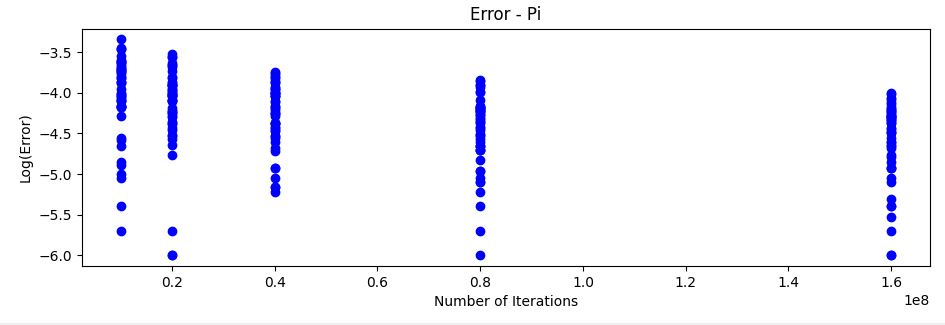
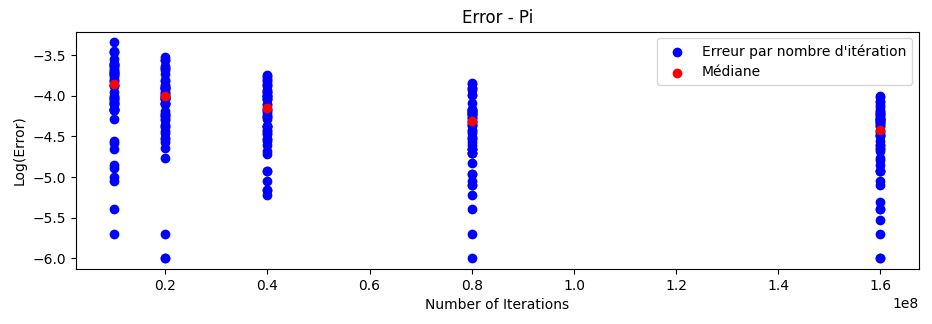
docs: Ajout de précision sur la partie de l'évaluation de l'erreur

diff --git a/src/Courbe_SpeedUp/main.py b/src/Courbe_SpeedUp/main.py
@@ -84,41 +84,37 @@ def plot_scalability_faible(ax, csv_file, group_size=50, title=""):
     ax.legend()
     ax.grid(True)
 
-def plot_log_error_vs_iterations(ax, csv_file, title):
-    # Charger le fichier CSV
+def plot_log_error_vs_iterations(ax, csv_file, group_size=50, title=""):
+    # Charger les données et les convertir
     df = pd.read_csv(csv_file, sep=";")
+    errors = [float(e.replace(',', '.')) for e in df['Error']]
+    iterations = df["nbIteration"].to_list()
+
+    # Calcul des logs des erreurs
+    log_errors = [math.log10(e) if e > 0 else float('nan') for e in errors]
+
+    # Calcul des moyennes par groupe
+    mean_log_errors = [
+        math.log10(sum(errors[i:i + group_size]) / len(errors[i:i + group_size]))
+        for i in range(0, len(errors), group_size)
+    ]
+
+    # Filtrer les données valides
+    valid_data = [(iterations[i], log_errors[i]) for i in range(len(log_errors)) if not math.isnan(log_errors[i])]
     
-    # Extraire les colonnes 'Error' et 'nbIteration'
-    error = df['Error'].to_list()
-    nb_iter = df["nbIteration"].to_list()
-
-    # Initialiser une liste vide pour les erreurs transformées
-    error_log = []
-
-    # Appliquer la transformation logarithmique
-    for i in error:
-        try:
-            # Convertir la virgule en point et calculer le logarithme
-            log_error = math.log10(float(i.replace(',', '.')))
-            error_log.append(log_error)
-        except ValueError:
-            # Gérer les erreurs de données invalides
-            error_log.append(float('nan'))  # Ajouter NaN si une erreur survient
-
-    # Assurer que les deux listes ont la même longueur (en supprimant les NaN de error_log et nb_iter)
-    valid_data = [(nb_iter[i], error_log[i]) for i in range(len(nb_iter)) if not math.isnan(error_log[i])]
-
-    # Si des données valides existent après le filtrage
     if valid_data:
-        nb_iter_filtered, error_log_filtered = zip(*valid_data)
+        nb_iter_filtered, log_errors_filtered = zip(*valid_data)
 
-        # Tracer les données
-        ax.scatter(nb_iter_filtered, error_log_filtered, c='b')
+        # Tracer les points et les moyennes
+        ax.scatter(nb_iter_filtered, log_errors_filtered, c='b', label="Erreur par nombre d'itération")
+        ax.scatter(sorted(set(iterations)), mean_log_errors, c='r', label="Médiane")
         ax.set_xlabel("Number of Iterations")
         ax.set_ylabel("Log(Error)")
         ax.set_title(title)
+        ax.legend()
     else:
         print("Aucune donnée valide disponible pour afficher le graphique.")
+
 
 # Créer la figure et les sous-graphique
 fig, axes = plt.subplots(3, 2, figsize=(15, 10))
@@ -128,7 +124,7 @@ plot_scalability_forte(axes[0, 0], "data/output_G24_Assignment_forte.csv", title
 plot_scalability_forte(axes[0, 1], "data/output_G24_Pi_forte.csv", title="Scalabilité Forte - Pi")
 #plot_scalability_faible(axes[1, 0], "data/output_G24_Assignment_faible.csv", title="Scalabilité Faible - Assignment")
 plot_scalability_faible(axes[1, 1], "data/output_G24_Pi_faible.csv", title="Scalabilité Faible - Pi")
-plot_log_error_vs_iterations(axes[2, 0], "data/output_G24_Assignment_faible.csv", title="Error - Assignment")
+#plot_log_error_vs_iterations(axes[2, 0], "data/output_G24_Assignment_faible.csv", title="Error - Assignment")
 plot_log_error_vs_iterations(axes[2, 1], "data/output_G24_Pi_faible.csv", title="Error - Pi")
 
 

diff --git a/docs/Rapport.md b/docs/Rapport.md
@@ -17,7 +17,7 @@ Enzo GUIGNOLLE
 - #### [A/ Contexte](#a)
 - #### [B/ Réalisation des tests](#b) 
   - #### [a/ Evaluation du Speed Up](#b1)
-  - #### [b/ Evaluation de l'écart du Speed Up](#b2)
+  - #### [b/ Evaluation de l'écart de Pi](#b2)
 
 <br>
 
@@ -328,108 +328,20 @@ D'après ce tableau nous obtenu un courbe de speed up pour la scalabilité faibl
 
 <img src="images/courbe_scalabilitéFaible_distribue.png" width="400">
 
-###  <a name="b"></a> b/ Evaluation de l'écart du Speed Up
+###  <a name="b2"></a> b/ Evaluation de l'écart de Pi
 
 Dans cette sous partie, nous allons voir comment l'erreur diminue au fur et à mesure qu'on augmente le nombre d'itération dasn les tests. En premier j'ai réalisé les tests de Pi.java.
+Pour réalisé cela nous devons calculer l'erreur relative pour chaque itération de Monte Carlo réalisé sur un nombre de point réalisé. C'est à dire que le calcul à réalisé est le suivant : 
 
-| nbIteration | Error     |
-|-------------|-----------|
-| 10000000    | 0,000453  |
-| 10000000    | 0,000067  |
-| 10000000    | 0,000052  |
-| 10000000    | 0,000009  |
-| 10000000    | 0,000026  |
-| 10000000    | 0,000095  |
-| 10000000    | 0,000022  |
-| 10000000    | 0,000133  |
-| 10000000    | 0,000014  |
-| 10000000    | 0,000185  |
-| 10000000    | 0,000079  |
-| 10000000    | 0,000067  |
-| 10000000    | 0,000078  |
-| 10000000    | 0,000210  |
-| 10000000    | 0,000112  |
-| 10000000    | 0,000236  |
-| 10000000    | 0,000230  |
-| 10000000    | 0,000238  |
-| 10000000    | 0,000196  |
-| 10000000    | 0,000081  |
-| 10000000    | 0,000069  |
-| 10000000    | 0,000083  |
-| 10000000    | 0,000177  |
-| 10000000    | 0,000069  |
-| 10000000    | 0,000088  |
-| 10000000    | 0,000092  |
-| 10000000    | 0,000097  |
-| 10000000    | 0,000135  |
-| 10000000    | 0,000135  |
-| 10000000    | 0,000188  |
-| 10000000    | 0,000358  |
-| 10000000    | 0,000247  |
-| 10000000    | 0,000013  |
-| 10000000    | 0,000028  |
-| 10000000    | 0,000002  |
-| 10000000    | 0,000191  |
-| 10000000    | 0,000067  |
-| 10000000    | 0,000345  |
-| 10000000    | 0,000279  |
-| 10000000    | 0,000098  |
-| 10000000    | 0,000249  |
-| 10000000    | 0,000004  |
-| 10000000    | 0,000203  |
-| 10000000    | 0,000153  |
-| 10000000    | 0,000178  |
-| 10000000    | 0,000010  |
-| 10000000    | 0,000151  |
-| 10000000    | 0,000348  |
-| 10000000    | 0,000220  |
-| 10000000    | 0,000160  |
-| 20000000    | 0,000123  |
-| 20000000    | 0,000027  |
-| 20000000    | 0,000060  |
-| 20000000    | 0,000094  |
-| 20000000    | 0,000103  |
-| 20000000    | 0,000152  |
-| 20000000    | 0,000080  |
-| 20000000    | 0,000107  |
-| 20000000    | 0,000221  |
-| 20000000    | 0,000081  |
-| 20000000    | 0,000135  |
-| 20000000    | 0,000209  |
-| 20000000    | 0,000092  |
-| 20000000    | 0,000297  |
-| 20000000    | 0,000001  |
-| 20000000    | 0,000113  |
-| 20000000    | 0,000043  |
-| 20000000    | 0,000023  |
-| 20000000    | 0,000030  |
-| 20000000    | 0,000185  |
-| 20000000    | 0,000017  |
-| 20000000    | 0,000090  |
-| 20000000    | 0,000096  |
-| 20000000    | 0,000272  |
-| 20000000    | 0,000078  |
-| 20000000    | 0,000107  |
-| 20000000    | 0,000001  |
-| 20000000    | 0,000002  |
-| 20000000    | 0,000044  |
-| 20000000    | 0,000029  |
-| 40000000    | 0,000107  |
-| 40000000    | 0,000043  |
-| 40000000    | 0,000098  |
-| 40000000    | 0,000043  |
-| 40000000    | 0,000052  |
-| 40000000    | 0,000006  |
-| 40000000    | 0,000012  |
-| 40000000    | 0,000133  |
-| 40000000    | 0,000057  |
-| 40000000    | 0,000037  |
-| 40000000    | 0,000000  |
-| 40000000    | 0,000007  |
-| 40000000    | 0,000153  |
-| 40000000    | 0,000110  |
+```
+Erreur relative = (valeur réel de Pi - valeur calculer de pi)/valeur réel de Pi
+```
 
-Avec ces données j'ai pu obtenir un graphique qui ressemble à cela : 
+Après avoir faire le calcul pour chaque itération nous pouvons réalisé un graphique de l'erreur relative en fonction du nombre d'itération. Nous sommes censé remarqué que plus le nombre de points calculer pour Pi, l'erreur est censé diminuer et se rapprocher de 0.
+Pour le code Pi.java nous obtenons un nuage de point qui ressemble à cela :
 
 <img src="images/courbe_Erreur_Pi.JPG" width="700">
+
+Nous remarquons quand même que les nuages de points pour chaque itération diminue bien, donc que l'erreur se rapproche de 0.
+Nous pouvons aussi remarqué que les erreurs diminue lentement en fonction du nombre d'itération si nous réalisons la médiane de chaque erreur représenter par les points rouges. 
 
